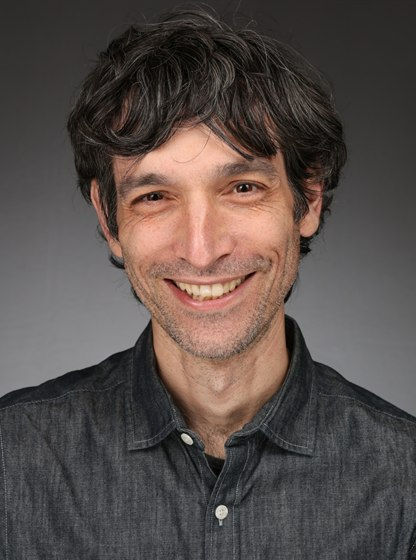
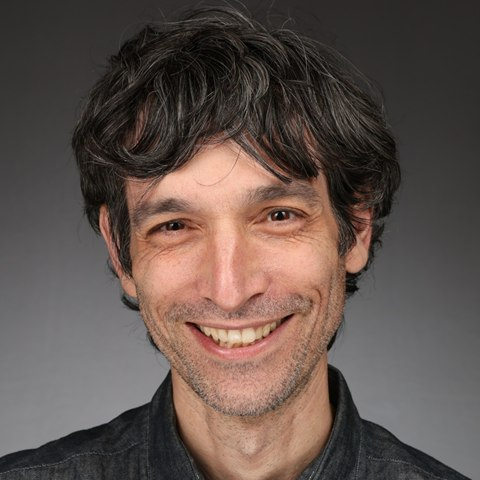
Tighter circular headshot; drop report years from homepage bio

diff --git a/index.html b/index.html
@@ -6,13 +6,13 @@ title: Ro'ee Levy
 <!-- <div class="jumbotron"> -->
 <div class="row marketing">
 	<div class="col-sm-4">
-	<img class="img-circle avatar" alt="Ro'ee Levy" src="img/Roee_small.jpg" width="208" height="280">
+	<img class="img-circle avatar" alt="Ro'ee Levy" src="img/Roee_small.jpg" width="220" height="220">
 	</div>
 	<div itemscope itemtype="https://schema.org/Person" class="col-sm-8">
 
     <p> I am an Associate Professor at the Tel Aviv University School of Economics, a J-PAL Affiliate, and a CEPR Research Affiliate. I am also a member of the Editorial Board of the <i>Review of Economic Studies</i>. Before joining Tel Aviv University, I visited MIT as a post-doc and received my PhD from Yale University. </p>
 
-    <p>  My research focuses on political economy and social media. My work has been published or is forthcoming in leading journals such as the <i>American Economic Review</i> and the <i>Journal of Political Economy</i>, and has been cited by major policy reports, including the U.S. Surgeon General’s Advisory on Social Media, the <i>Economic Reports of the President</i> (2023, 2024), and the UN <i>Human Development Report</i> (2025).</p>
+    <p>  My research focuses on political economy and social media. My work has been published or is forthcoming in leading journals such as the <i>American Economic Review</i> and the <i>Journal of Political Economy</i>, and has been cited by major policy reports, including the U.S. Surgeon General’s Advisory on Social Media, the <i>Economic Reports of the President</i>, and the UN <i>Human Development Report</i>.</p>
 	
 	<p>  My ERC Starting Grant, ECHO, studies the supply and demand of news slant. You can find my research statement <a href="cv/2025-11_Levy_-_Research_statement.pdf"> here</a>. </p>
 	<br>
